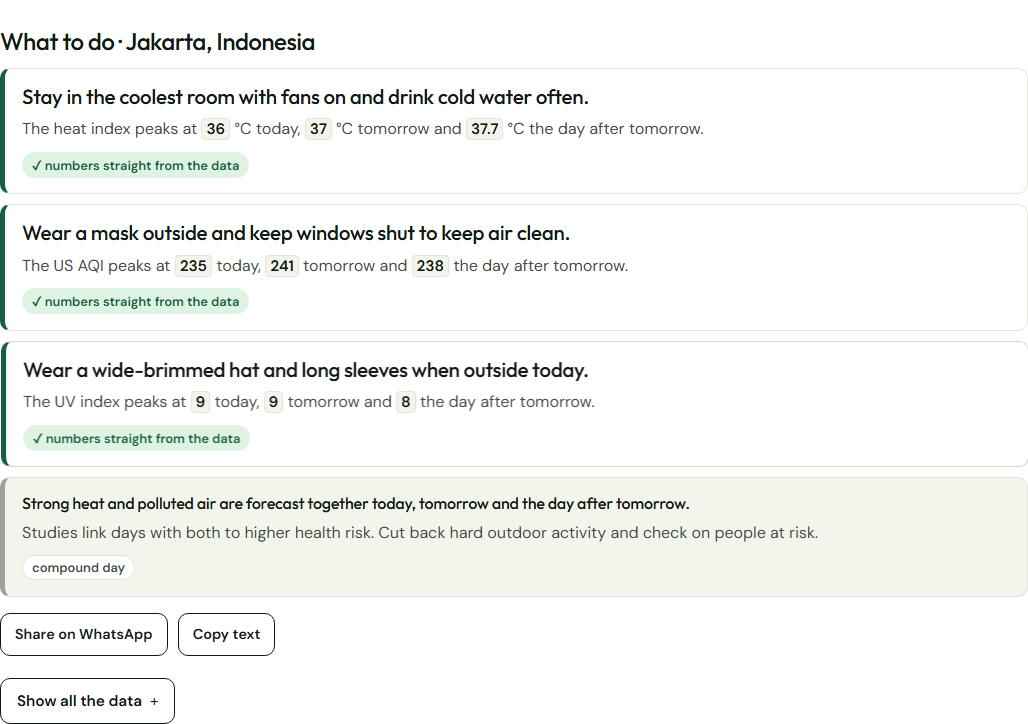
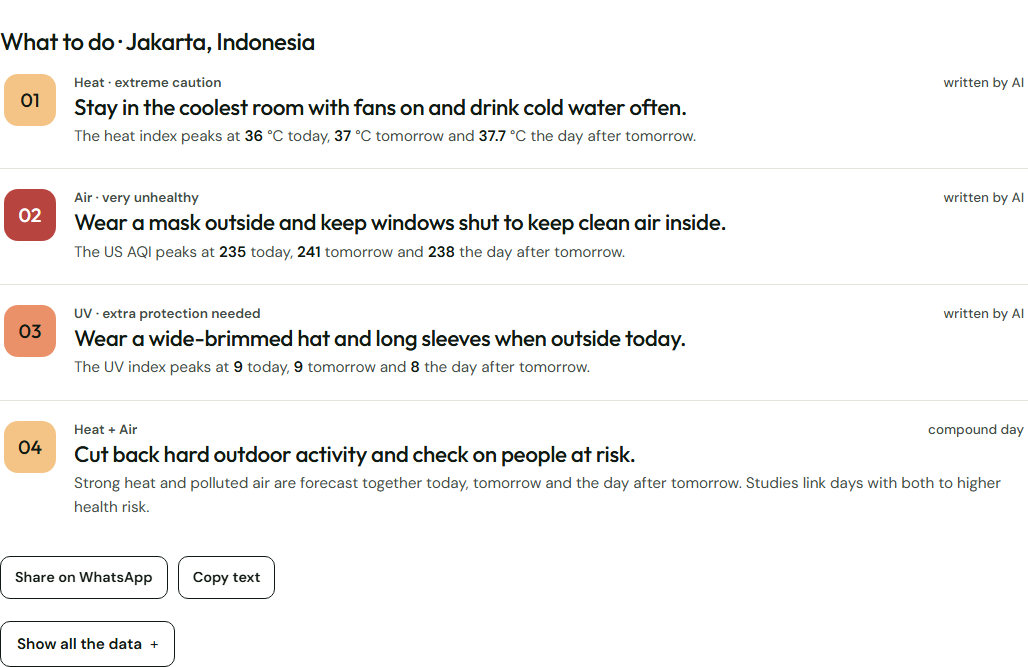
feat: the briefing is a list of numbered points, not cards

diff --git a/public/index.html b/public/index.html
@@ -425,6 +425,22 @@
   /* Result: points first; all the data behind one switch */
   #out h2.what { font:500 1.5rem/1.2 var(--head); color:var(--ink); letter-spacing:-.02em; }
   #out:not(.full) .item { cursor:default; }
+  .items { list-style:none; margin:0; padding:0; display:block; }
+  .item, .item.notice, .item.compound { display:grid; grid-template-columns:52px 1fr; column-gap:18px; row-gap:3px; align-items:start; background:none; border:0; border-top:1.5px solid var(--rule); border-radius:0; padding:20px 4px; }
+  .item:first-child { border-top:0; padding-top:6px; }
+  .item:hover { transform:none; }
+  .item.lit, .item.notice.lit, .item.compound.lit { border-color:var(--rule); }
+  .full .item.lit, .full .item.notice.lit, .full .item.compound.lit { background:var(--cream); border-color:var(--rule); box-shadow:-12px 0 0 var(--cream), 12px 0 0 var(--cream); }
+  .item .no { grid-row:1 / span 3; width:52px; height:52px; border-radius:14px; display:grid; place-items:center; font:500 1.2rem var(--head); background:var(--t0); }
+  .item .no::before { content:counter(pt, decimal-leading-zero); }
+  .items { counter-reset:pt; } .item { counter-increment:pt; }
+  .item .no.t1 { background:var(--t1); } .item .no.t2 { background:var(--t2); } .item .no.t3 { background:var(--t3); } .item .no.t4 { background:var(--t4); color:var(--t4-ink); }
+  .item .lab { display:flex; justify-content:space-between; gap:12px; font:600 .84rem var(--sans); color:var(--mut); }
+  .item .lab .tag { font-weight:500; white-space:nowrap; }
+  .item h3, .item.notice h3, .item.compound h3 { font:500 1.4rem/1.22 var(--head); letter-spacing:-.015em; margin:0; }
+  .item p { font-size:.95rem; }
+  .item p b { font:600 1em var(--sans); background:none; border:0; padding:0; color:var(--ink); }
+  @media (max-width:520px) { .item, .item.notice, .item.compound { grid-template-columns:40px 1fr; column-gap:12px; padding:16px 0; } .item .no { width:40px; height:40px; border-radius:11px; font-size:1rem; } .item h3, .item.notice h3, .item.compound h3 { font-size:1.15rem; } }
   .more { margin-top:22px; }
   .more > summary { list-style:none; cursor:pointer; display:inline-flex; align-items:center; gap:8px; border:1.5px solid var(--ink); border-radius:10px; padding:10px 16px; font-weight:600; font-size:.95rem; }
   .more > summary::-webkit-details-marker { display:none; }
@@ -638,7 +654,7 @@ const T = {
     outNoteSeen: 'From NASA POWER (MERRA-2 reanalysis, grid of about 50 km). A reanalysis is not a weather-station measurement, and a grid this coarse reads cooler than a city centre. Air temperature, not heat index. Two 10-year windows: a difference between them is not by itself a trend.',
     outNote: 'Median of three climate models (CMIP6 HighResMIP, bias-corrected against ERA5-Land) on a high-emissions pathway close to RCP8.5. Model output, not measurement, and air temperature, not heat index. The models differ: read the range, not one number.',
     d1: 'numbers from data', d2: 'start here',
-    strip: 'Next 72 hours', briefing: 'What to do', more: 'Show all the data',
+    strip: 'Next 72 hours', briefing: 'What to do', more: 'Show all the data', tagAi: 'written by AI',
     rows: { heat: 'Heat', rain: 'Rain', air: 'Air', uv: 'UV', ctx: 'Climate', mod: 'Models' },
     modLabel: { agree: 'agree', 'differ somewhat': 'differ somewhat', differ: 'differ' }, modGap: (d) => `up to ${d} °C apart`,
     modNote: 'Models row: air temperature from two independent forecast models, ECMWF\'s physics model (IFS) and its AI model (AIFS), compared at the times both produce. A wide gap means the forecast is less certain; it does not say which model is right. The labels use this project\'s own cut points (1 and 3 °C).',
@@ -730,7 +746,7 @@ const T = {
     outNoteSeen: 'Dari NASA POWER (reanalisis MERRA-2, grid sekitar 50 km). Reanalisis bukan pengukuran stasiun cuaca, dan grid sekasar ini terbaca lebih sejuk daripada pusat kota. Ini suhu udara, bukan indeks panas. Dua jendela 10 tahun: selisih di antaranya belum tentu sebuah tren.',
     outNote: 'Median tiga model iklim (CMIP6 HighResMIP, dikoreksi bias terhadap ERA5-Land) pada jalur emisi tinggi yang mendekati RCP8.5. Ini keluaran model, bukan pengukuran, dan suhu udara, bukan indeks panas. Model saling berbeda: baca rentangnya, bukan satu angka.',
     d1: 'angka dari data', d2: 'mulai di sini',
-    strip: '72 jam ke depan', briefing: 'Yang perlu dilakukan', more: 'Tampilkan semua data',
+    strip: '72 jam ke depan', briefing: 'Yang perlu dilakukan', more: 'Tampilkan semua data', tagAi: 'ditulis AI',
     rows: { heat: 'Panas', rain: 'Hujan', air: 'Udara', uv: 'UV', ctx: 'Iklim', mod: 'Model' },
     modLabel: { agree: 'sepakat', 'differ somewhat': 'agak berbeda', differ: 'berbeda' }, modGap: (d) => `selisih hingga ${d} °C`,
     modNote: 'Baris model: suhu udara dari dua model prakiraan yang independen, model fisika ECMWF (IFS) dan model AI-nya (AIFS), dibandingkan pada jam yang dihasilkan keduanya. Selisih yang lebar berarti prakiraan kurang pasti; itu tidak menunjukkan model mana yang benar. Labelnya memakai batas pilihan proyek ini (1 dan 3 °C).',
@@ -1018,11 +1034,15 @@ function evidence(text) {
   for (const part of text.split(/(\d+(?:[.,]\d+)?)/)) p.appendChild(/^\d/.test(part) ? el('b', '', part) : document.createTextNode(part));
   return p;
 }
-function item(kind, headline, body, badge, ids) {
-  const a = el('article', 'item' + (kind === 'model' ? '' : ' ' + kind));
-  a.appendChild(el('h3', '', headline));
-  a.appendChild(kind === 'model' ? evidence(body) : el('p', '', body));
-  a.appendChild(el('span', 'badge' + (kind === 'model' ? ' ok' : ''), badge));
+// One point of the briefing. The tile colour is the rule-based severity of the first fact it relies on;
+// the level is also written out, so colour never carries it alone.
+function item(kind, fact, action, numbers, tag, ids) {
+  const L = t();
+  const a = el('li', 'item' + (kind === 'model' ? '' : ' ' + kind));
+  a.appendChild(el('span', 'no t' + (fact ? tone(fact) : 0)));
+  const lab = el('div', 'lab');
+  lab.append(el('span', '', fact ? `${L.rows[fact.hazard]} · ${L.level(fact.level)}` : ''), el('span', 'tag', tag));
+  a.append(lab, el('h3', '', action), evidence(numbers));
   linkable(a, ids);
   return a;
 }
@@ -1166,13 +1186,20 @@ function render(d) {
   more.appendChild(s1);
 
   const s2 = el('section'); s2.appendChild(el('h2', 'what', `${L.briefing} · ${placeName(state.place)}`));
-  const list = el('div', 'items');
-  if (d.quiet) list.appendChild(el('div', 'quiet', L.quiet));
-  for (const c of d.claims) list.appendChild(item('model', c.advice, c.evidence, '✓ ' + L.verified, c.fact_ids));
-  if (d.compound) list.appendChild(item('compound', d.compound.evidence, d.compound.advice, L.compoundBadge, d.compound.fact_ids));
-  for (const n of d.notices || []) list.appendChild(item('notice', n.evidence, n.advice, L.notice, n.fact_ids));
-  if (!d.quiet && !d.claims.length && !(d.notices || []).length) list.appendChild(el('p', 'msg err', L.failed + (d.error ? ` (${d.error})` : '')));
-  s2.appendChild(list);
+  const list = el('ol', 'items');
+  const first = (ids) => d.facts.find((x) => x.id === ids[0]);
+  for (const c of d.claims) list.appendChild(item('model', first(c.fact_ids), c.advice, c.evidence, L.tagAi, c.fact_ids));
+  if (d.compound) {
+    // ponytail: the notice text is "why. what to do."; split at the first full stop so the action leads. Send two fields from the server if a third language is added.
+    const [why, ...act] = d.compound.advice.split('. ');
+    const it = item('compound', first(d.compound.fact_ids), act.join('. ') || why, act.length ? `${d.compound.evidence} ${why}.` : d.compound.evidence, L.compoundBadge, d.compound.fact_ids);
+    it.querySelector('.lab span').textContent = `${L.rows.heat} + ${L.rows.air}`;
+    list.appendChild(it);
+  }
+  for (const n of d.notices || []) list.appendChild(item('notice', first(n.fact_ids), n.advice, n.evidence, L.notice, n.fact_ids));
+  if (d.quiet) s2.appendChild(el('div', 'quiet', L.quiet));
+  else if (!list.children.length) s2.appendChild(el('p', 'msg err', L.failed + (d.error ? ` (${d.error})` : '')));
+  else s2.appendChild(list);
   const tools = el('div', 'tools');
   const wa = el('a', 'btn ghost', L.share);
   wa.href = 'https://wa.me/?text=' + encodeURIComponent(briefingText(d)); wa.target = '_blank'; wa.rel = 'noopener';

diff --git a/PLAN.md b/PLAN.md
@@ -527,6 +527,8 @@ If no action is removed in the recorded run, say so and show the removed-action 
 - **2026-10-09 (session 7, continued).** The owner asked for the whole interface to follow the brand board. Both pages now use the brand palette only: Ink, Sunrise (the single accent), Cream, Paper; the green hero, lime, mint and lilac are gone. Hazard, receipts and evidence cards are board-style panels (18 px radius, a quiet label and a number; cream, sunrise, ink, white). The pipeline marks the AI step in sunrise and the checker in ink; the footer is ink. Green and red remain for status only (kept, failed), and the severity scale is unchanged. The brand rules are one block at the end of the stylesheet in `public/index.html`. Checked in headless Chromium at 1280 and 375 px with a real briefing: no console errors, no overflow; 43 tests pass. `docs/screenshots/hero.png` and `result.png` were retaken; the other screenshots there are older. Not measured: contrast ratios with a tool.
 - **2026-10-09 (session 7, continued).** The owner found the result too much to take in. The result now opens as points only: "What to do", the actions and notices with their evidence line, share and copy. One switch, "Show all the data", opens everything else unchanged (process line, 72-hour grid, climate and model rows, long-range card, audit trail). The audit link between a point and its cells works when the data is open. `scripts/ui-check.cjs` opens the switch before it checks the grid. Checked in headless Chromium at 1280 and 375 px: grid hidden by default, 18 cells after opening, 3 cells lit on hover, a process segment opens the audit, no console errors, no overflow; 43 tests pass.
 
+- **2026-10-09 (session 7, continued).** The owner rejected the bordered briefing cards. Each briefing item is now a numbered point: a number tile in the rule-based severity colour of the first fact it relies on, the hazard and level in words, the action as the headline, the numbers in one line, and a plain text tag ("written by AI", "standard notice", "compound day") in place of the pills. Notices now lead with the action too. The compound notice text is split at its first full stop in the page so the action leads (marked in the code; send two fields from the server if a third language is added). Checked in headless Chromium at 1280 px (English) and 375 px (Indonesian): no console errors, no overflow, audit link works with the data open; 43 tests pass.
+
 **Open questions for the owner**
 
 1. Done 2026-10-08 (section 1). Still open: check the video length limit on the Devpost submission form.
